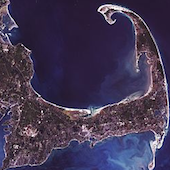
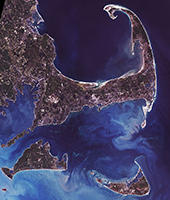
Tuned docs and images

diff --git a/ptolemy/configs/capecode/intro.htm b/ptolemy/configs/capecode/intro.htm
@@ -19,16 +19,13 @@
             <li><a href="authors.htm" target="_blank">Authors</a>
             <li><a href="about:copyright" target="_blank">Copyright</a>
           </ul>
-          <p>To start immediately by creating a CapeCode model, select File -&gt; New -&gt;
-          Graph Editor from the menu bar.  Select Help from the Help menu for
-          instructions on creating a model.</p>
+          <p>To create a CapeCode model, select File -&gt; New -&gt;
+          Cape Code Model from the menu bar. See the
+          <a href="http://ptolemy.eecs.berkeley.edu/#in_browser" target="_top">Ptolemy Project web page</a>
+          for more information about the Ptolemy II.
+    </p>
         </td>
       </tr>
     </table>
-    <p>
-      See the
-      <a href="http://ptolemy.eecs.berkeley.edu/#in_browser" target="_top">Ptolemy Project web page</a>
-      for more information about the Ptolemy II.
-    </p>
   </body>
 </html>

diff --git a/ptolemy/configs/capecode/demonstrations.htm b/ptolemy/configs/capecode/demonstrations.htm
@@ -14,6 +14,8 @@
           <ul>
             <li><a href="../../../org/terraswarm/accessor/demo/AprilTags/AprilTags.xml">AprilTags</a></li>
             <li><a href="../../../org/terraswarm/accessor/demo/Camera/Camera.xml">Camera</a> and <a href="../../../org/terraswarm/accessor/demo/Camera/CaptureOpenLoop.xml">CaptureOpenLoop</a></li>
+            <li><a href="../../../org/terraswarm/accessor/demo/ImageFilters/Random.xml">Random</a> and other <a href="../../../org/terraswarm/accessor/demo/ImageFilters/ImageFilters.xml">ImageFilters</a></li>
+            <li><a href="../../../org/terraswarm/accessor/demo/ImageAnnotate/ImageAnnotate.xml">ImageAnnotate</a> (see also <a href="../../../org/terraswarm/accessor/demo/MotionDetector/MotionDetector.xml">MotionDetector</a>)</li>
           </ul>
         </td>
       </tr>        
